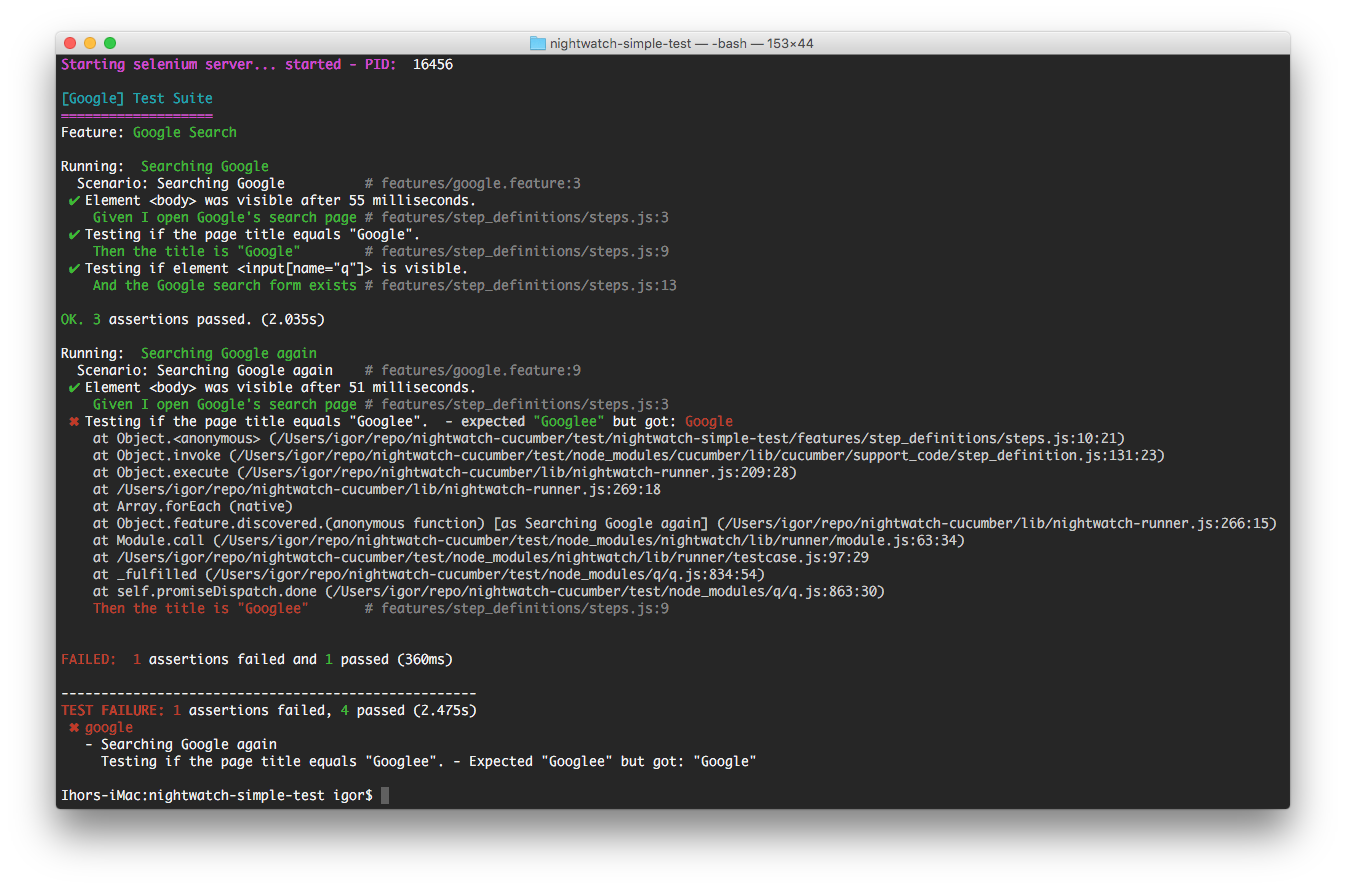
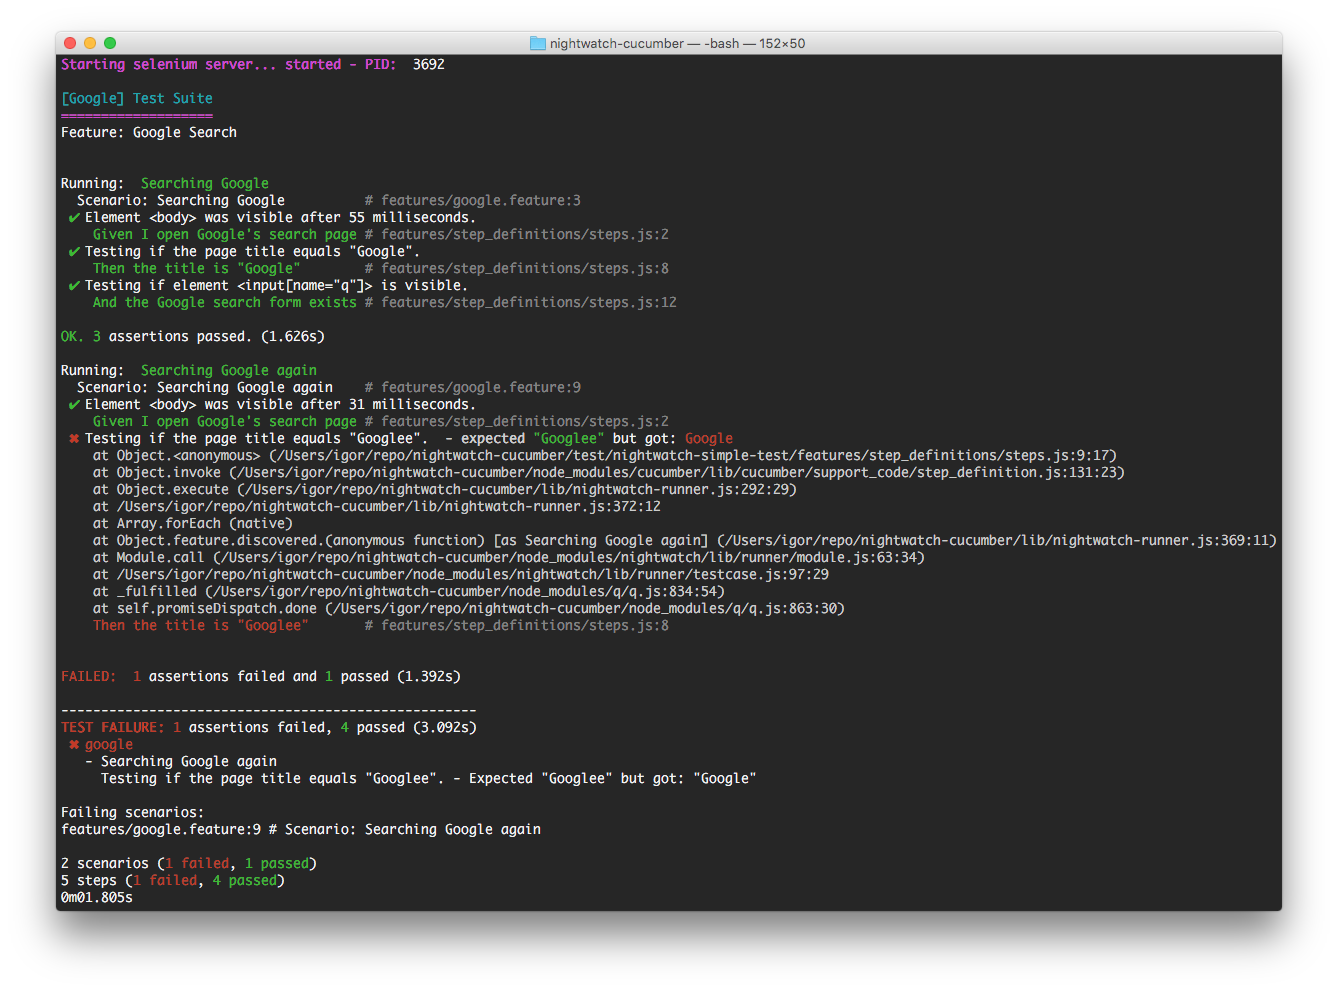
Fix scenario result handling #2

Changed region(s): [[0.0306, 0.0304, 0.9499, 0.6985], [0.0306, 0.7289, 0.9499, 0.9415], [0.9193, 0.5163, 0.9499, 0.5467]]

diff --git a/lib/nightwatch-runner.js b/lib/nightwatch-runner.js
@@ -319,7 +319,8 @@ function discoverScenario (feature, scenario, steps, options) {
       },
       beforeEach: function (browser, done) {
         return co(function * () {
-          yield * logBeforeScenario(scenario)
+          const currentScenarion = feature.discovered.scenarios.shift()
+          yield * logBeforeScenario(currentScenarion)
           if (feature.hasBackground()) yield * logBackground(feature.getBackground())
         }).then(function () {
           if (options.beforeScenario) options.beforeScenario(browser, done)
@@ -337,12 +338,17 @@ function discoverScenario (feature, scenario, steps, options) {
     }
 
     bootstrap.features[feature.getName()] = feature.discovered
+
+    feature.discovered.scenarios = []
+
     tags = getFeatureTags(feature)
 
     if (tags.length) {
       feature.discovered['@tags'] = tags
     }
   }
+
+  feature.discovered.scenarios.push(scenario)
 
   if (scenario.getScenarioOutlineLine()) {
     if (!feature.discovered.firstOutlineRow) {
